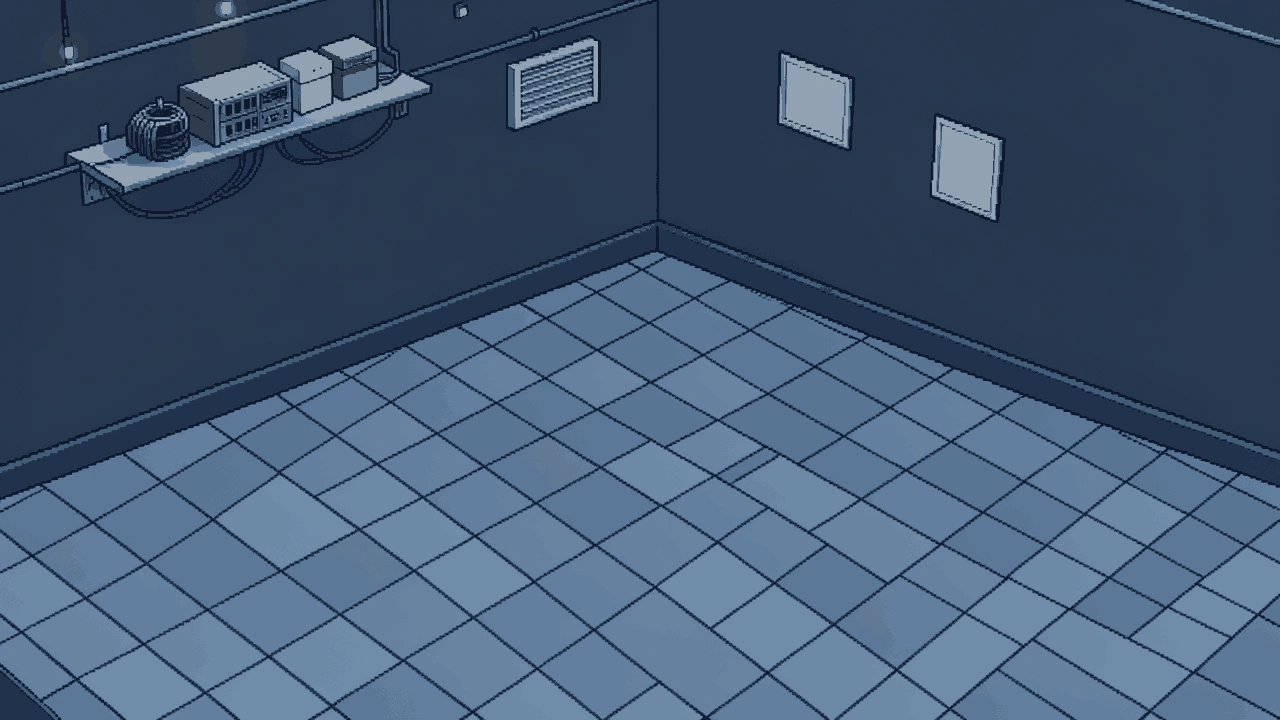
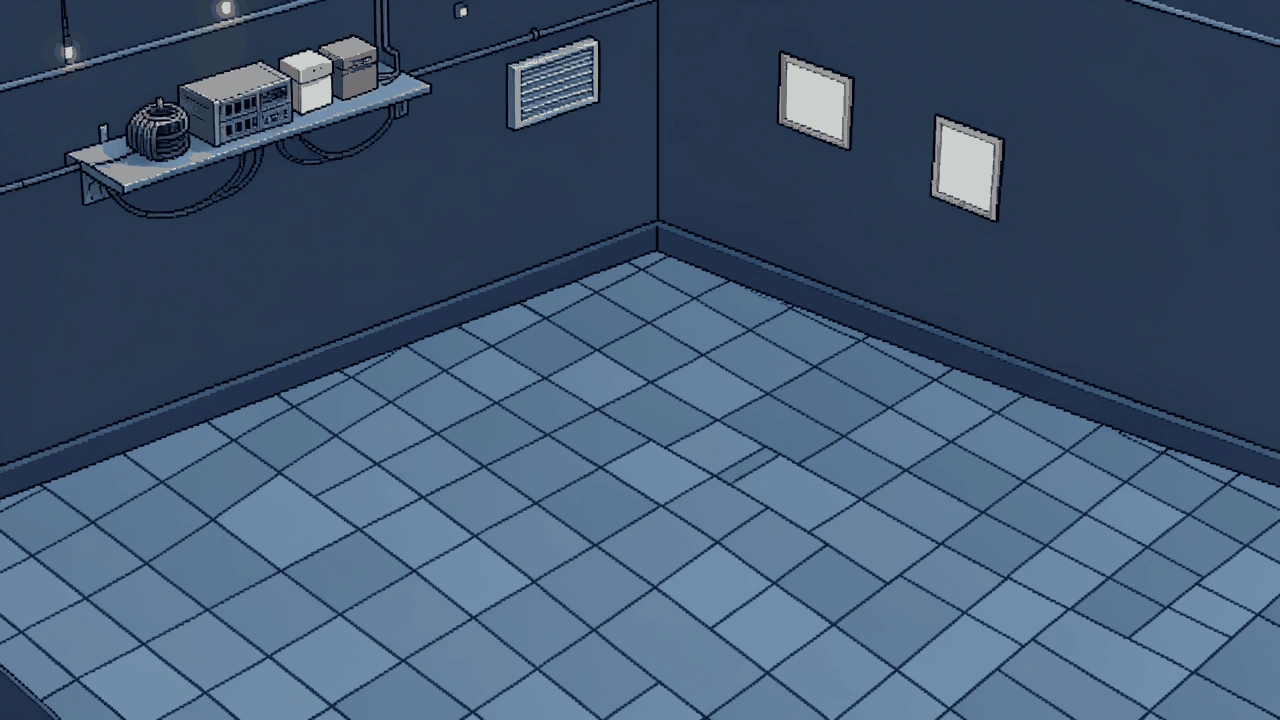
fix(scene): backdrop post-process per asset class + durable magenta repair
Measured, not guessed: the original shipped backdrop is 6% flat-neighbour / ~19k colours
(a smooth painted image), the props are 26-54% flat with hard dark outlines, and the
26-colour pass I had applied to the BACKDROP pushed it to 70% - flatter than anything in
the scene, with visible banding on the walls. The backdrop is a different asset class from
a sprite: it now quantises lightly (96 colours) and keeps its shading. --from-raw
recomposites from the existing generation, so this iteration cost no GPU run.

Also made the magenta-under-alpha repair actually durable. Two traps, both hit:
  * byte-inequality is the wrong skip condition for LOSSY webp - a decode/re-encode round
    trip is never byte-identical, so every run recompressed the art. It now counts the
    defect (magenta pixels under alpha) instead.
  * saving the repair as lossy webp REPOPULATES colour in transparent pixels, so the fix
    did not survive its own save (slot 2 still had 584 px). It is written losslessly now,
    and a second run correctly reports 'none needed'.

diff --git a/scripts/make_scene_shell.py b/scripts/make_scene_shell.py
@@ -37,39 +37,68 @@ frg = importlib.util.module_from_spec(spec)
 spec.loader.exec_module(frg)
 
 DRY = "--dry-run" in sys.argv
+FROM_RAW = "--from-raw" in sys.argv   # re-post-process the existing raw; no GPU, no regeneration
 
 
-def zero_rgb_under_alpha(img: Image.Image) -> Image.Image:
-    """Set RGB to black wherever alpha is 0.
+def zero_rgb_under_alpha(img: Image.Image) -> int:
+    """Set RGB to black wherever alpha is 0; return how many pixels were fixed.
 
-    The keying step paints alpha=0 but keeps the magenta RGB underneath; a texture
-    filter in the browser samples those RGB values and fringes the sprite.
+    The keying step paints alpha=0 but keeps the magenta RGB underneath. Invisible on
+    an opaque canvas, but a browser's texture filter samples those RGB values and can
+    fringe the sprite magenta at the edges.
     """
     img = img.convert("RGBA")
     px = img.load()
     w, h = img.size
+    fixed = 0
     for y in range(h):
         for x in range(w):
             r, g, b, a = px[x, y]
             if a == 0 and (r or g or b):
                 px[x, y] = (0, 0, 0, 0)
-    return img
+                fixed += 1
+    return fixed
+
+
+def magenta_under_alpha(img: Image.Image) -> int:
+    """Count fully transparent pixels that still carry magenta-ish RGB."""
+    px = img.convert("RGBA").load()
+    w, h = img.size
+    n = 0
+    for y in range(h):
+        for x in range(w):
+            r, g, b, a = px[x, y]
+            if a == 0 and r > 100 and b > 100 and g < 120:
+                n += 1
+    return n
 
 
 def repair_sheets() -> list[str]:
-    """Fix magenta-under-alpha in every guest slot sheet we generated."""
+    """Fix magenta-under-alpha in every guest slot sheet we generated.
+
+    Two traps learned the hard way here:
+      * a byte-inequality check is the WRONG skip condition - these are lossy WebP, so a
+        decode/re-encode round trip is never byte-identical and every run would recompress
+        the art. Count the actual defect instead.
+      * saving the repaired sheet as lossy WebP REPOPULATES colour in transparent pixels,
+        so the fix must be written losslessly or it does not survive its own save.
+    """
     fixed = []
     for slot in (1, 2, 3, 4):
         p = FRONTEND / f"guest_anim_{slot}.webp"
         if not p.exists():
             continue
         im = Image.open(p).convert("RGBA")
-        before = im.copy()
-        im = zero_rgb_under_alpha(im)
-        if im.tobytes() != before.tobytes():
-            if not DRY:
-                im.save(p, quality=95)
-            fixed.append(str(p.relative_to(REPO)))
+        n = magenta_under_alpha(im)
+        if n == 0:
+            continue
+        if not DRY:
+            zero_rgb_under_alpha(im)
+            im.save(p, lossless=True, quality=100)
+            after = magenta_under_alpha(Image.open(p).convert("RGBA"))
+            fixed.append(f"{p.relative_to(REPO)} ({n} px, {after} left after save)")
+        else:
+            fixed.append(f"{p.relative_to(REPO)} ({n} px, dry-run)")
     return fixed
 
 
@@ -83,21 +112,27 @@ def main():
     print(f"   clear zones: {[z['id'] for z in profile['clear_zones']]}")
 
     if not DRY:
-        pipe, torch = frg.load_pipe()          # LoRA stays off (ADR-060 field result)
-        img = frg.generate(pipe, torch, profile["prompt"],
-                           profile["canvas"]["w"], profile["canvas"]["h"], seed=101)
-        img.save(raw_path)
-        print(f"   raw -> {raw_path.relative_to(REPO)}")
+        if FROM_RAW:
+            if not raw_path.exists():
+                raise SystemExit(f"--from-raw needs an existing {raw_path}")
+            img = Image.open(raw_path).convert("RGB")
+            print(f"   reusing raw -> {raw_path.relative_to(REPO)} (no generation)")
+        else:
+            pipe, torch = frg.load_pipe()      # LoRA stays off (ADR-060 field result)
+            img = frg.generate(pipe, torch, profile["prompt"],
+                               profile["canvas"]["w"], profile["canvas"]["h"], seed=101)
+            img.save(raw_path)
+            print(f"   raw -> {raw_path.relative_to(REPO)}")
 
         pp = profile["postprocess"]
         final = frg.pixelize(img, (profile["canvas"]["w"] // pp["scale"],
                                    profile["canvas"]["h"] // pp["scale"]),
                              colors=pp["colors"])
-        out_png = out_dir / "office_bg_small.png"
-        final.save(out_png)
         if pp["scale"] != 1:
             final = final.resize((profile["canvas"]["w"], profile["canvas"]["h"]), Image.NEAREST)
-        final = zero_rgb_under_alpha(final)
+        zero_rgb_under_alpha(final)      # in place; returns a count, do not rebind
+        out_png = out_dir / "office_bg_small.png"
+        final.save(out_png)
 
         # deployable replacement
         target = FRONTEND / "office_bg_small.webp"
